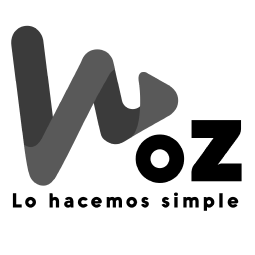
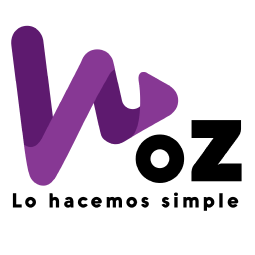
ADD: Effect color in sponsors

Changed region(s): [[0.0275, 0.0824, 0.7137, 0.7412]]

diff --git a/src/components/ui.js b/src/components/ui.js
@@ -256,12 +256,17 @@ function Brand({ styles, ...props }) {
           position: "relative"
         },
         img: {
+          filter: "saturate(0.1)",
           height: "100%",
           width: "100%",
           objectFit: "contain",
           position: "absolute",
           top: 0,
-          left: 0
+          left: 0,
+          transition: "all 0.25s ease-in-out",
+          "&:hover": {
+            filter: "saturate(1)"
+          }
         },
         "@media (max-width: 768px)": {
           margin: 0,

diff --git a/src/components/sponsors.js b/src/components/sponsors.js
@@ -14,13 +14,6 @@ function Sponsors() {
         </Center>
         <Brand>
           <a
-            href="https://fiis.unas.edu.pe/"
-            target="_blank"
-            rel="noopener noreferrer"
-          >
-            <img src="/assets/img/fiis.png" alt="fiis" />
-          </a>
-          <a
             href="https://www.web-out.com/"
             target="_blank"
             rel="noopener noreferrer"
